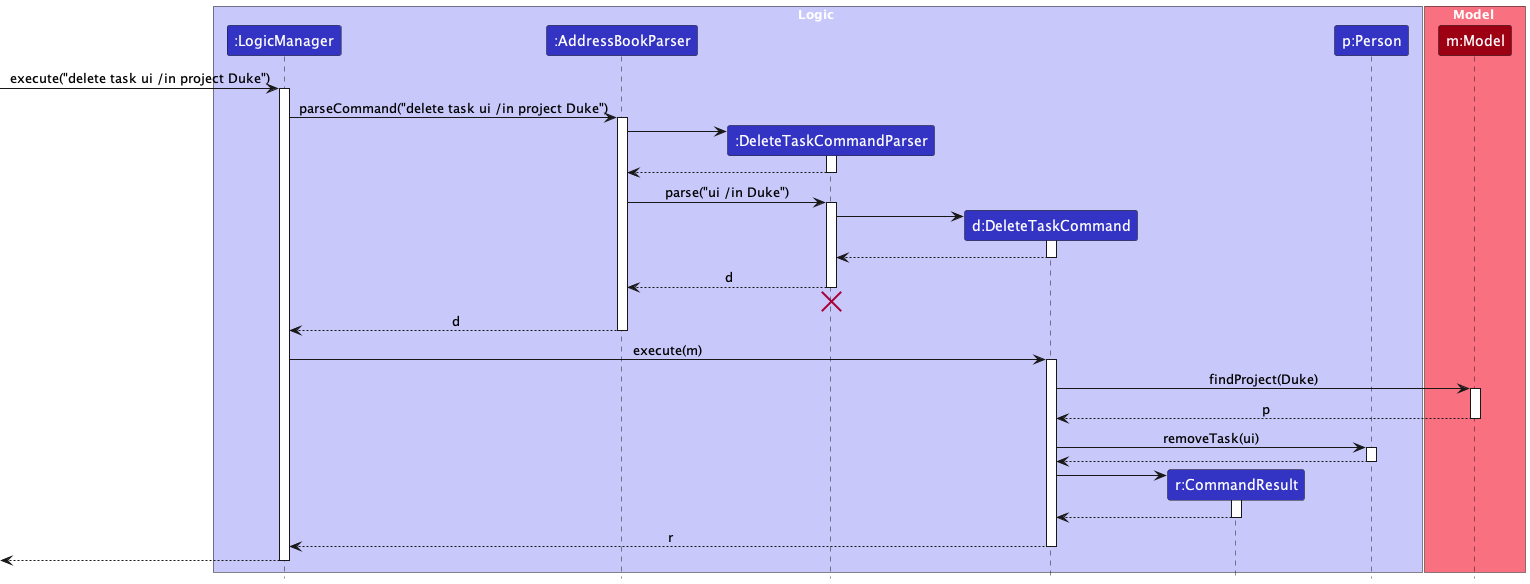
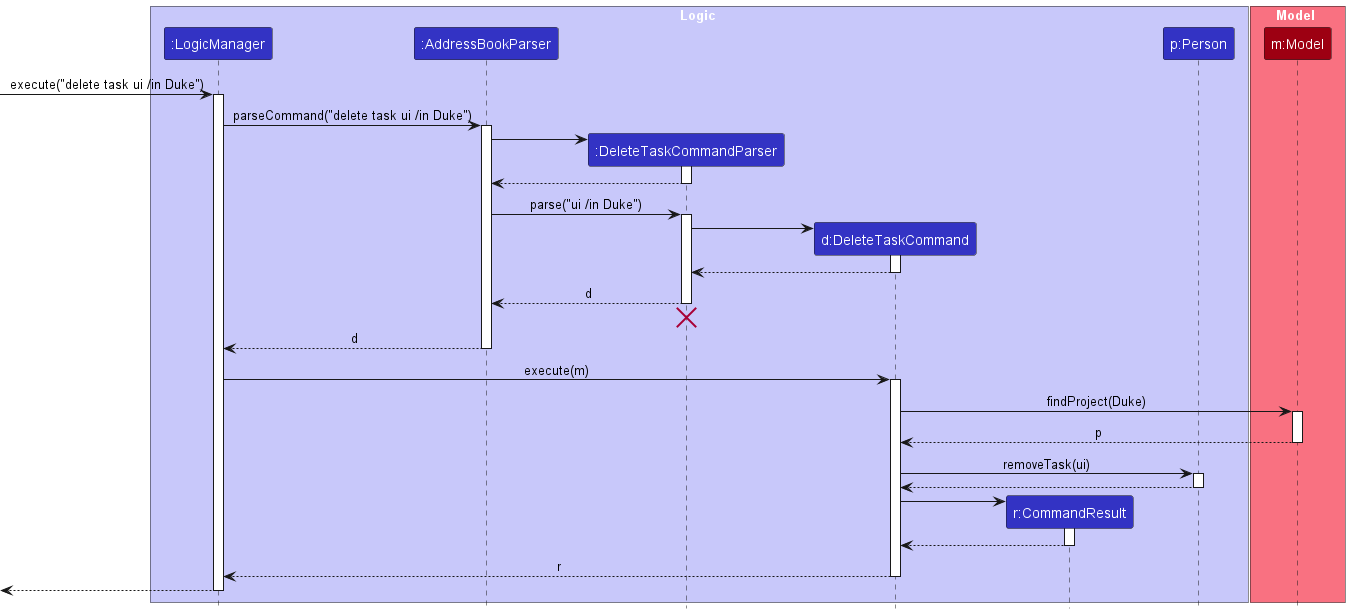
Update DG

Changed region(s): [[0.0, 0.0, 1.0, 0.9863], [0.2489, 0.5548, 0.3111, 0.5856]]

diff --git a/docs/DeveloperGuide.md b/docs/DeveloperGuide.md
@@ -214,7 +214,7 @@ This section describes some noteworthy details on how certain features are imple
      - As the projects in the list have unique name, we don't need to worry about returning the wrong project
    - Else the project is successfully deleted
 
-![Interactions Inside the Logic Component for the `delete task ui /in Duke` Command](images/DeleteProjectSequenceDiagram.png)
+![Interactions Inside the Logic Component for the `delete project Duke` Command](images/DeleteProjectSequenceDiagram.png)
 
 ### Deleting a task
 
@@ -231,7 +231,38 @@ This section describes some noteworthy details on how certain features are imple
      - The check is done by using `Person::hasTask`
    - Else the task is successfully deleted
 
-![Interactions Inside the Logic Component for the `delete project Duke` Command](images/DeleteTaskSequenceDiagram.png)
+![Interactions Inside the Logic Component for the `delete task ui /in Duke` Command](images/DeleteTaskSequenceDiagram.png)
+
+### Setting deadline for both tasks and projects
+
+#### Implementation
+
+1. The AddressBookParser parses the command string given by the user, and looks for the command word "set deadline". Then `SetDeadlineCommandParser` parse function is called.
+2. The function checks if the command string includes '/in'. 
+   1. If it does, and if the PROJECT_NAME or TASK_NAME is an empty string, an exception is thrown. Else, the `SetTaskDeadlineCommand` execution function is called.
+   2. If the string does not include '/in', and if the PROJECT_NAME is an empty string or if the project cannot be found, an exception is thrown. Else, the `SetProjectDeadlineCommand` execution function is called.
+3. The `SetTaskDeadlineCommand` and `SetProjectDeadlineCommand` class is responsible for setting a deadline to the task or project.
+    - The constructor of the `SetTaskDeadlineCommand` class takes in a project of type Project and a task of type Task as well as a deadline of type String. 
+    - The constructor of the `SetProjectDeadlineCommand` class takes in a project of type Project and a deadline of type String.
+    - If the project doesn't exist, then an exception is thrown.
+    - If the task doesn't exist within the project, then an exception is thrown.
+    - If the deadline is not a valid date or is in the wrong format, an exception is thrown as well.
+    - Else the deadline is successfully set.
+
+
+### Setting category to a project
+
+#### Implementation
+
+1. The AddressBookParser parses the command string given by the user, and looks for the command word "set category". Then `SetProjectCategoryCommandParser` parse function is called.
+2. The function checks if the command string includes '/to'. If not, an exception is thrown to inform users on the correct command format.
+3. If PROJECT_NAME or TASK_NAME is an empty string, an exception is thrown.
+4. The `SetProjectCategoryCommand` class is responsible for setting a project category.
+    - The constructor of the `SetProjectCategoryCommand` class takes in a project of type Project and a category of type String.
+    - If the project doesn't exist, then an exception is thrown.
+    - Else the category is successfully set.
+
+![Interactions Inside the Logic Component for the `set category urgent /to Duke` Command](images/SetProjectCategorySequenceDiagram.png)
 
 ### \[Proposed\] Undo/redo feature
 
